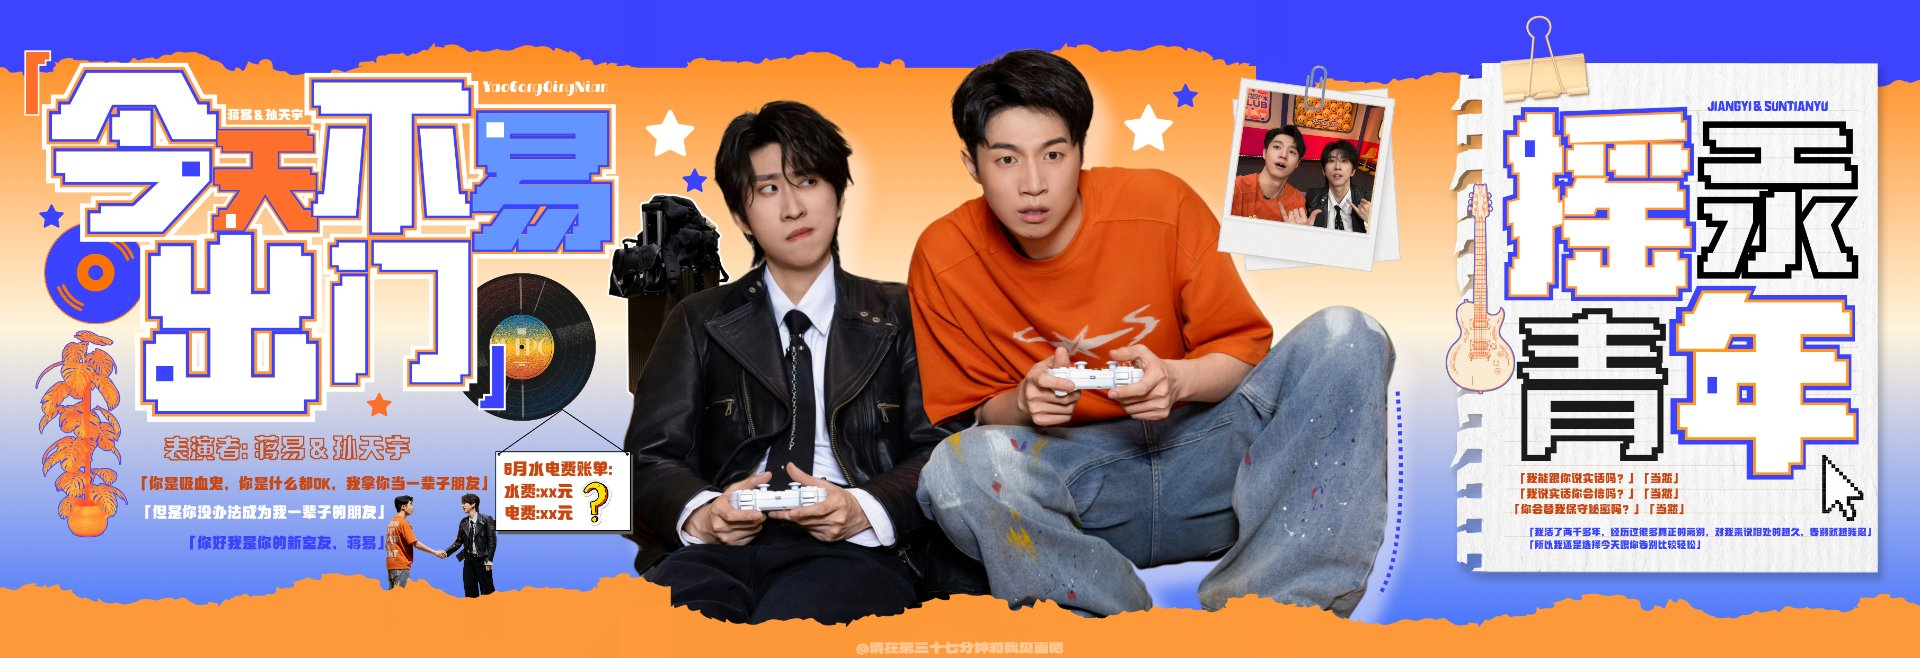
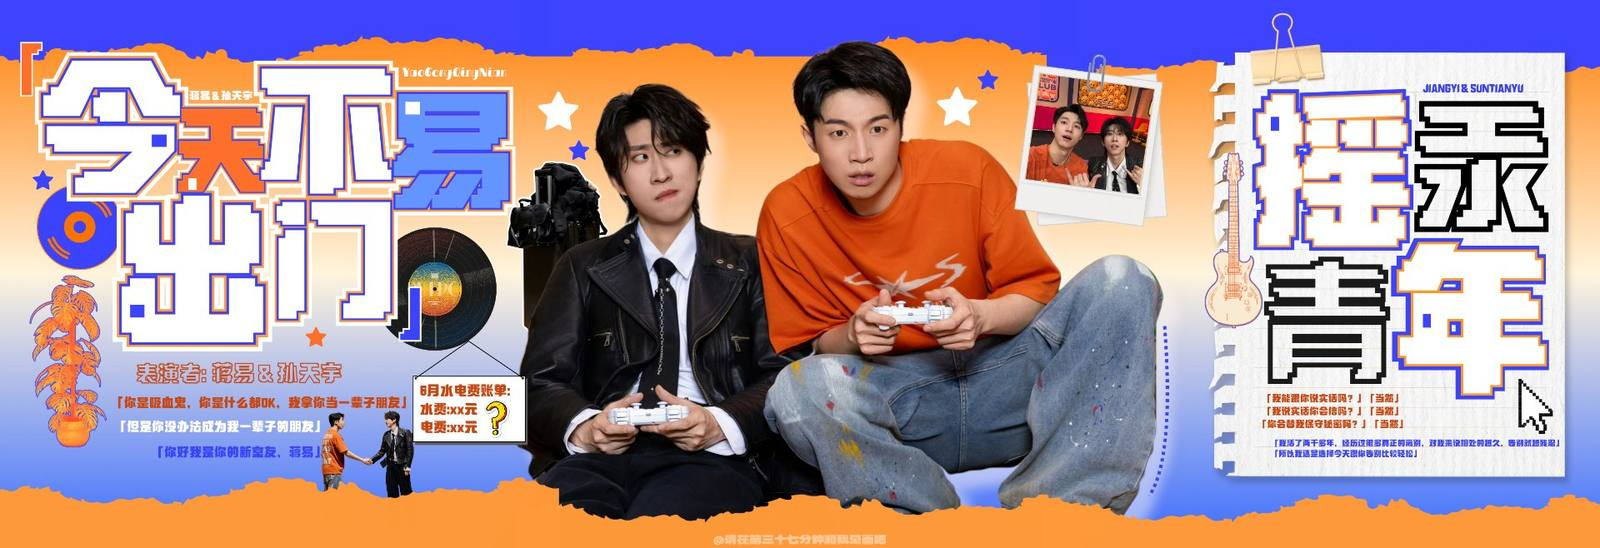
优化轮播图：重编码渐进式JPEG(省47%) + 首图淡入 + 预加载兜底

diff --git a/fanfic.html b/fanfic.html
@@ -23,7 +23,7 @@
   })();
   </script>
   <meta name="viewport" content="width=device-width, initial-scale=1.0" />
-  <script src="js/load-guard.js?v=202608182354"></script>
+  <script src="js/load-guard.js?v=202608190004"></script>
   <title>同人专区 · 摇摇又汞汞</title>
   <link rel="icon" href="images/favicon.svg" />
   <script src="https://cdn.tailwindcss.com"></script>
@@ -32,7 +32,7 @@
       mblue:{50:"#EEF2F6",100:"#D9E2EA",300:"#A7C0D8",500:"#7E9CB8",700:"#5C7A96",900:"#3E566B"},
       morange:{100:"#F6E7D8",300:"#E8C3A0",500:"#D9A679",700:"#B97F4E"} } } } };
   </script>
-  <link rel="stylesheet" href="css/style.css?v=202608182354" />
+  <link rel="stylesheet" href="css/style.css?v=202608190004" />
   <link rel="stylesheet" href="css/reader-guard.css" />
   <style>
     .composer-grid{display:grid;grid-template-columns:1fr 1fr;gap:12px}
@@ -41,7 +41,7 @@
     #postDesc{margin-top:12px}
     @media(max-width:560px){.composer-grid{grid-template-columns:1fr}}
   </style>
-  <script src="js/static-api.js?v=202608182354"></script>
+  <script src="js/static-api.js?v=202608190004"></script>
 </head>
 <body data-page="fanfic" class="m-bg m-text">
 
@@ -109,7 +109,7 @@
     <button id="floatTop" title="回到顶部">↑</button>
   </div>
 
-  <script src="js/main.js?v=202608182354"></script>
+  <script src="js/main.js?v=202608190004"></script>
   <script src="js/reader-guard.js"></script>
 
   <div id="fanPostModal" class="modal-mask fan-post-modal">

diff --git a/js/main.js b/js/main.js
@@ -274,7 +274,7 @@
         const imgSrc = (typeof rawImg === "string" && rawImg.startsWith("data:")) ? rawImg : esc(rawImg);
         return `
         <div class="hero-slide wm" data-wm="${WM_TEXT}">
-          ${imgSrc ? `<img src="${imgSrc}" alt="${esc(it.title)}" loading="eager" decoding="async" onerror="if(!this.dataset.r1){this.dataset.r1=1;this.src=this.src.split('?')[0]+'?r='+Date.now();}else{this.classList.add('img-broken');}" />` : ""}
+          ${imgSrc ? `<img src="${imgSrc}" alt="${esc(it.title)}" loading="eager" decoding="async" onload="this.classList.add('loaded')" onerror="if(!this.dataset.r1){this.dataset.r1=1;this.src=this.src.split('?')[0]+'?r='+Date.now();}else{this.classList.add('img-broken');}" />` : ""}
           <div class="hero-cap">
             ${it.link ? `<a href="${esc(it.link)}" target="_blank" rel="noopener" style="color:inherit;text-decoration:none">` : ""}
               <h2>${esc(it.title)}</h2>
@@ -308,6 +308,10 @@
     const hero = $(".hero");
     if (hero) { hero.addEventListener("mouseenter", stop); hero.addEventListener("mouseleave", play); }
     play();
+    // 兜底：若 3s 后仍有图未触发 onload（极少数边缘情况），强制显示，避免卡在透明
+    setTimeout(() => {
+      $$(".hero-slide img", track).forEach((im) => { if (!im.classList.contains("img-broken")) im.classList.add("loaded"); });
+    }, 3000);
   }
 
 

diff --git a/rule.html b/rule.html
@@ -23,7 +23,7 @@
   })();
   </script>
   <meta name="viewport" content="width=device-width, initial-scale=1.0" />
-  <script src="js/load-guard.js?v=202608182354"></script>
+  <script src="js/load-guard.js?v=202608190004"></script>
   <title>社区规则 · 摇摇又汞汞</title>
   <link rel="icon" href="images/favicon.svg" />
   <script src="https://cdn.tailwindcss.com"></script>
@@ -32,9 +32,9 @@
       mblue:{50:"#EEF2F6",100:"#D9E2EA",300:"#A7C0D8",500:"#7E9CB8",700:"#5C7A96",900:"#3E566B"},
       morange:{100:"#F6E7D8",300:"#E8C3A0",500:"#D9A679",700:"#B97F4E"} } } } };
   </script>
-  <link rel="stylesheet" href="css/style.css?v=202608182354" />
+  <link rel="stylesheet" href="css/style.css?v=202608190004" />
   <link rel="stylesheet" href="css/reader-guard.css" />
-  <script src="js/static-api.js?v=202608182354"></script>
+  <script src="js/static-api.js?v=202608190004"></script>
 </head>
 <body data-page="rule" class="m-bg m-text">
 
@@ -94,7 +94,7 @@
     <button id="floatTop" title="回到顶部">↑</button>
   </div>
 
-  <script src="js/main.js?v=202608182354"></script>
+  <script src="js/main.js?v=202608190004"></script>
   <script src="js/reader-guard.js"></script>
   <script>
     (function () {

diff --git a/material.html b/material.html
@@ -23,7 +23,7 @@
   })();
   </script>
   <meta name="viewport" content="width=device-width, initial-scale=1.0" />
-  <script src="js/load-guard.js?v=202608182354"></script>
+  <script src="js/load-guard.js?v=202608190004"></script>
   <title>物料合集 · 摇摇又汞汞</title>
   <link rel="icon" href="images/favicon.svg" />
   <script src="https://cdn.tailwindcss.com"></script>
@@ -32,9 +32,9 @@
       mblue:{50:"#EEF2F6",100:"#D9E2EA",300:"#A7C0D8",500:"#7E9CB8",700:"#5C7A96",900:"#3E566B"},
       morange:{100:"#F6E7D8",300:"#E8C3A0",500:"#D9A679",700:"#B97F4E"} } } } };
   </script>
-  <link rel="stylesheet" href="css/style.css?v=202608182354" />
+  <link rel="stylesheet" href="css/style.css?v=202608190004" />
   <link rel="stylesheet" href="css/reader-guard.css" />
-  <script src="js/static-api.js?v=202608182354"></script>
+  <script src="js/static-api.js?v=202608190004"></script>
 </head>
 <body data-page="material" class="m-bg m-text">
 
@@ -96,7 +96,7 @@
     <button id="floatTop" title="回到顶部">↑</button>
   </div>
 
-  <script src="js/main.js?v=202608182354"></script>
+  <script src="js/main.js?v=202608190004"></script>
   <script src="js/reader-guard.js"></script>
 </body>
 </html>

diff --git a/index.html b/index.html
@@ -23,7 +23,7 @@
   })();
   </script>
   <meta name="viewport" content="width=device-width, initial-scale=1.0" />
-  <script src="js/load-guard.js?v=202608182354"></script>
+  <script src="js/load-guard.js?v=202608190004"></script>
   <title>摇摇又汞汞 · 采访 · 节目 · 同人</title>
   <meta name="description" content="合规、温柔的明星安利与应援社区：采访、节目物料与同人创作。" />
   <link rel="icon" href="images/favicon.svg" />
@@ -42,9 +42,9 @@
       },
     };
   </script>
-  <link rel="stylesheet" href="css/style.css?v=202608182354" />
+  <link rel="stylesheet" href="css/style.css?v=202608190004" />
   <link rel="stylesheet" href="css/reader-guard.css" />
-  <script src="js/static-api.js?v=202608182354"></script>
+  <script src="js/static-api.js?v=202608190004"></script>
 </head>
 
 <body data-page="index" class="m-bg m-text">
@@ -168,7 +168,7 @@
     </div>
   </div>
 
-  <script src="js/main.js?v=202608182354"></script>
+  <script src="js/main.js?v=202608190004"></script>
   <script src="js/reader-guard.js"></script>
 </body>
 </html>

diff --git a/reader.html b/reader.html
@@ -23,12 +23,12 @@
   })();
   </script>
   <meta name="viewport" content="width=device-width, initial-scale=1.0, viewport-fit=cover" />
-  <script src="js/load-guard.js?v=202608182354"></script>
+  <script src="js/load-guard.js?v=202608190004"></script>
   <title>阅读 · 摇摇又汞汞</title>
   <link rel="icon" href="images/favicon.svg" />
   <link rel="stylesheet" href="css/reader-guard.css" />
   <link rel="stylesheet" href="css/reader.css" />
-  <script src="js/static-api.js?v=202608182354"></script>
+  <script src="js/static-api.js?v=202608190004"></script>
 </head>
 <body class="reader-page" data-page="reader">
 
@@ -138,6 +138,6 @@
 
   <!-- 防盗：滚动水印 + 防复制 + 截图提示（读者页启用） -->
   <script src="js/reader-guard.js"></script>
-  <script src="js/reader.js?v=202608182354"></script>
+  <script src="js/reader.js?v=202608190004"></script>
 </body>
 </html>

diff --git a/css/style.css b/css/style.css
@@ -145,7 +145,9 @@ html.dark .nav-menu a:hover, html.dark .nav-menu a.active { background: var(--m-
 .hero:not(.has-hero) .hero-arrow,
 .hero:not(.has-hero) .hero-dots { display: none; }
 .hero-slide { min-width: 100%; height: 100%; position: relative; background: linear-gradient(135deg, #2a2f36, #3a4048); }
-.hero-slide img { width: 100%; height: 100%; object-fit: cover; }
+.hero-slide img { width: 100%; height: 100%; object-fit: cover; opacity: 0; transition: opacity .45s ease; }
+/* 渐进式 JPEG 下完首扫即显示并淡入，掩盖解码耗时，感知加载更快 */
+.hero-slide img.loaded { opacity: 1; }
 /* 轮播图加载失败（如文件缺失）时隐藏破图标，露出 .hero-slide 渐变底，避免刺眼裂图 */
 .hero-slide img.img-broken { display: none; }
 .hero-cap { position: absolute; left: 0; right: 0; bottom: 0; padding: 40px 24px 28px;
